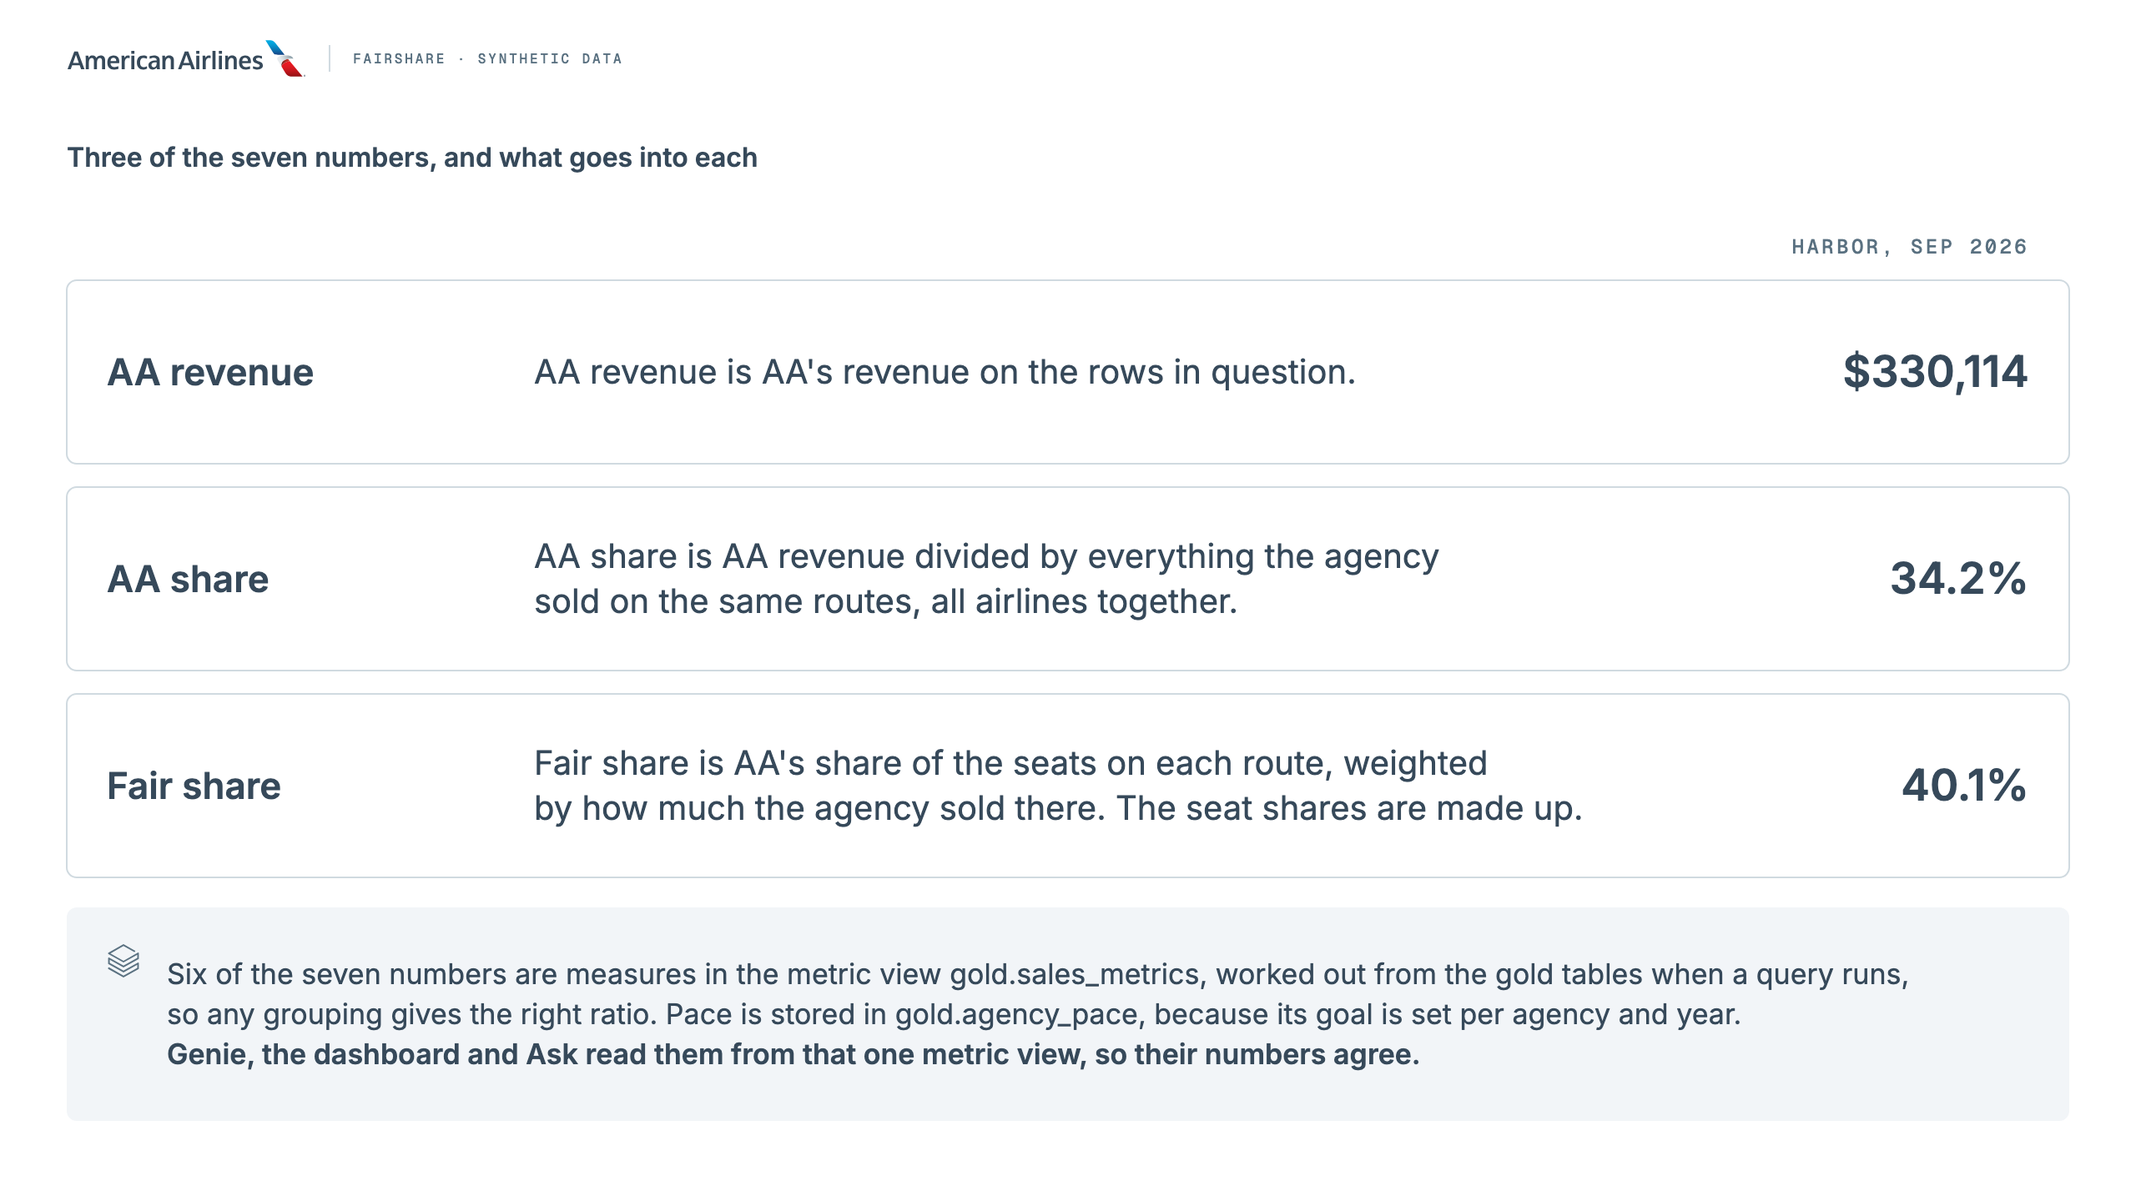
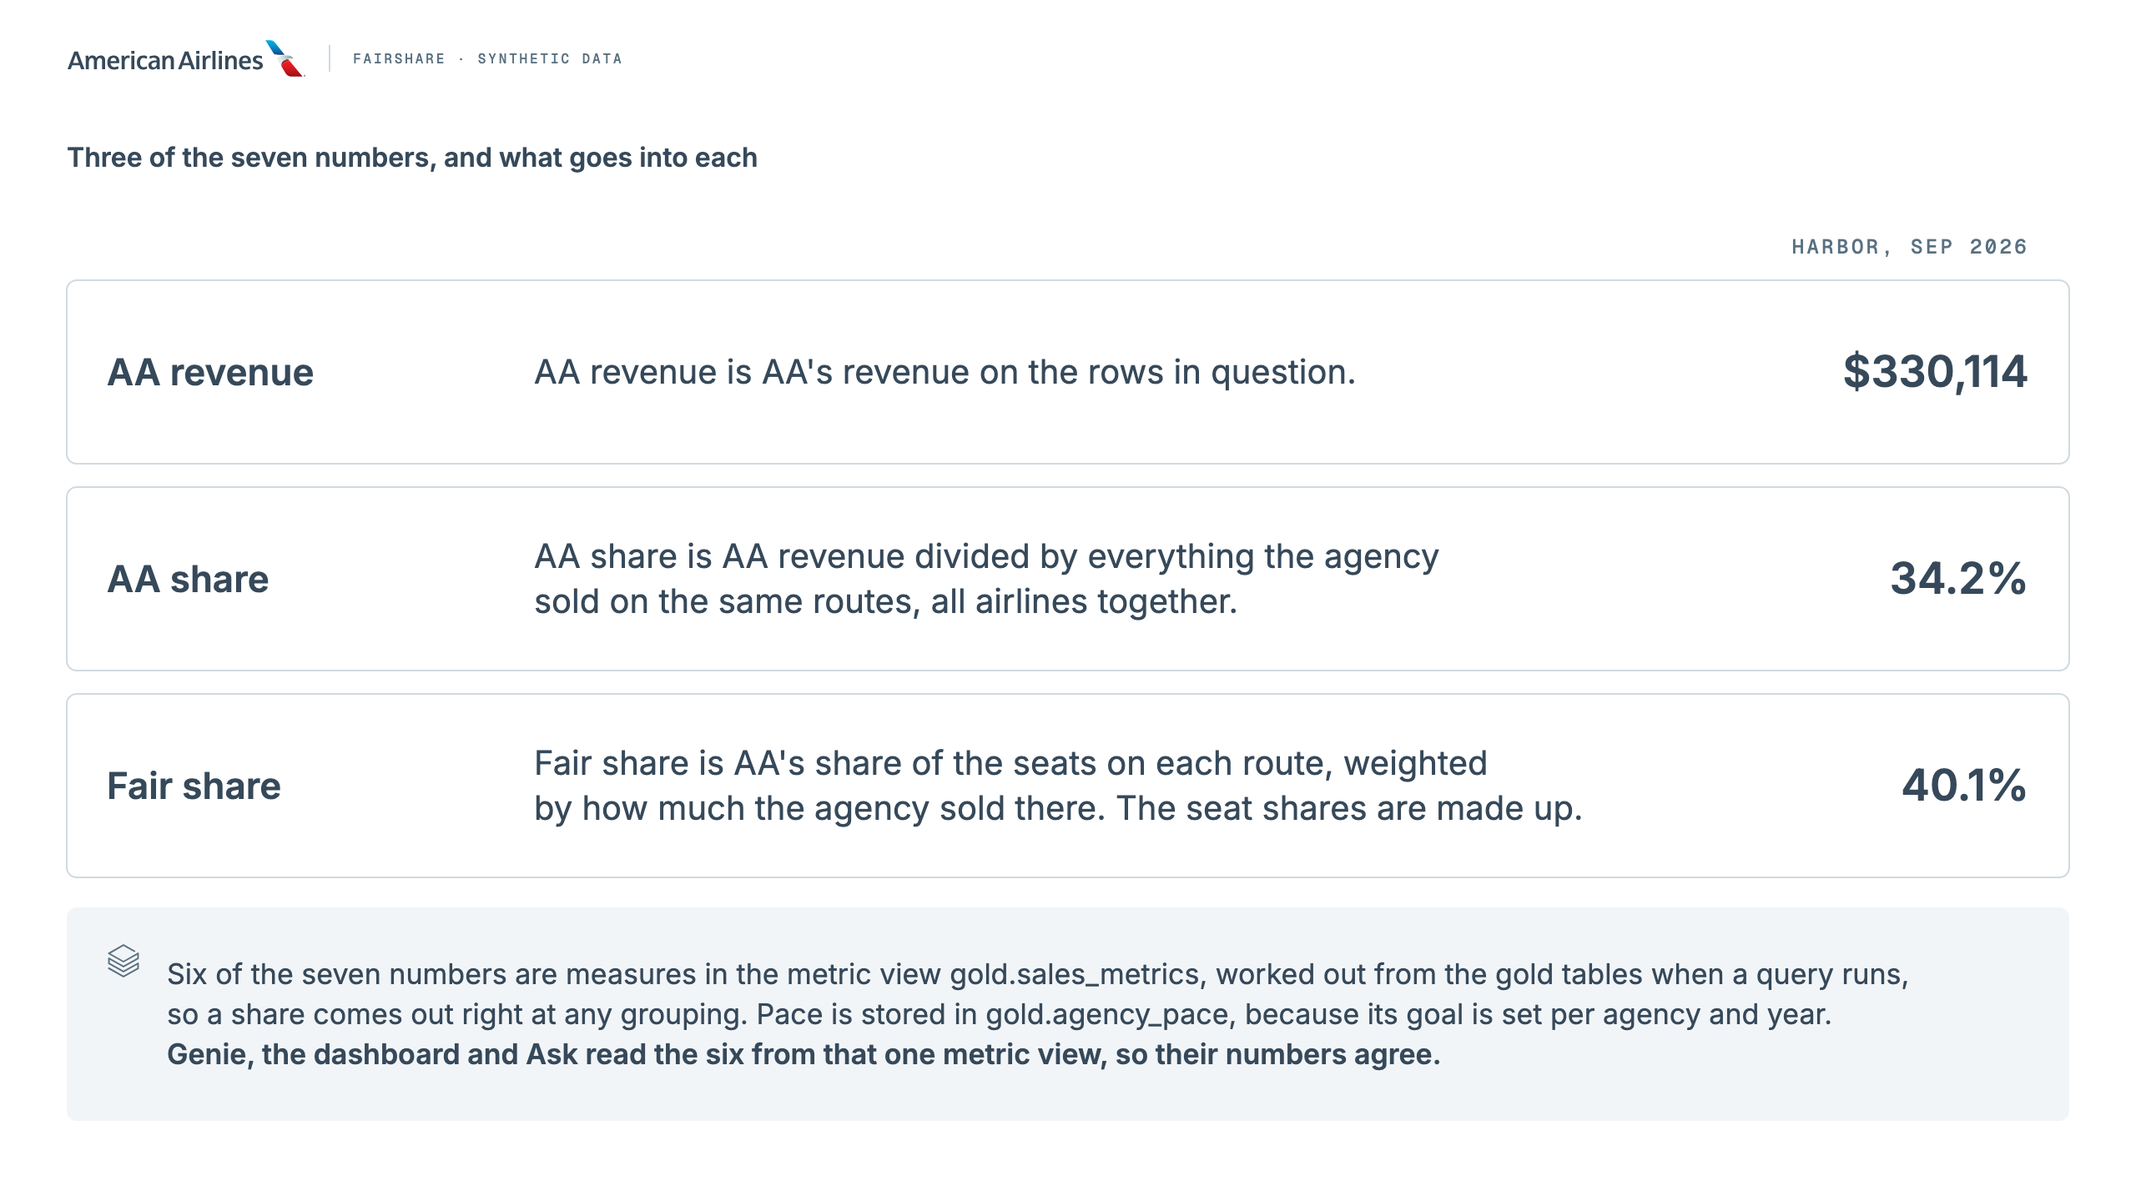
figures: the numbers close says a share is right at any grouping, and pace's goals are made up
The close on numbers and gaps now says "so a share comes out right at any
grouping" (year over year is right at month grain only) and "read the six from
that one metric view" (pace comes from gold.agency_pace). The pace card adds
"The goals are made up." The spec's explainability section says the same.

Changed region(s): [[0.0938, 0.8125, 0.8438, 0.9062]]

diff --git a/docs/diagrams/09b-numbers-gaps-animated.html b/docs/diagrams/09b-numbers-gaps-animated.html
@@ -245,18 +245,18 @@
           <text x="1216" y="402" fill="#36495a" font-size="26" font-weight="600" font-family="'Inter', system-ui, sans-serif" text-anchor="end" data-value="yoy_revenue_pct">-16.4%</text>
         </g>
         <g data-card="pace_pct"><rect x="40" y="444" width="1200" height="82" rx="6" fill="#ffffff" stroke="#d0dae0" stroke-width="1"/><text x="64" y="493" fill="#36495a" font-size="22" font-weight="600" font-family="'Inter', system-ui, sans-serif" data-name="pace_pct">Pace</text></g>
-        <g data-motion-item data-step="4" data-recede aria-label="Pace. Pace is revenue so far this year divided by the goal so far, counting only the months the agency reported. Harbor, Sep 2026: 96.1%.">
+        <g data-motion-item data-step="4" data-recede aria-label="Pace. Pace is revenue so far this year divided by the goal so far, counting only the months the agency reported. The goals are made up. Harbor, Sep 2026: 96.1%.">
           <rect x="40" y="444" width="1200" height="82" rx="6" fill="none" stroke="none" stroke-width="1.5" data-lead/>
           <text x="320" y="478.5" fill="#36495a" font-size="20" font-family="'Inter', system-ui, sans-serif" data-def="pace_pct">Pace is revenue so far this year divided by the goal so far,</text>
-          <text x="320" y="505.5" fill="#36495a" font-size="20" font-family="'Inter', system-ui, sans-serif" data-def="pace_pct">counting only the months the agency reported.</text>
+          <text x="320" y="505.5" fill="#36495a" font-size="20" font-family="'Inter', system-ui, sans-serif" data-def="pace_pct">counting only the months the agency reported. The goals are made up.</text>
           <text x="1216" y="494" fill="#36495a" font-size="26" font-weight="600" font-family="'Inter', system-ui, sans-serif" text-anchor="end" data-value="pace_pct">96.1%</text>
         </g>
-        <g data-motion-item data-step="5" aria-label="Where the numbers live. Six of the seven numbers are measures in the metric view gold.sales_metrics, worked out from the gold tables when a query runs, so any grouping gives the right ratio. Pace is stored in gold.agency_pace, because its goal is set per agency and year. Genie, the dashboard and Ask read them from that one metric view, so their numbers agree.">
+        <g data-motion-item data-step="5" aria-label="Where the numbers live. Six of the seven numbers are measures in the metric view gold.sales_metrics, worked out from the gold tables when a query runs, so a share comes out right at any grouping. Pace is stored in gold.agency_pace, because its goal is set per agency and year. Genie, the dashboard and Ask read the six from that one metric view, so their numbers agree.">
           <rect x="40" y="544" width="1200" height="128" rx="6" fill="#f2f5f8"/>
           <svg x="64" y="566" width="20" height="20" viewBox="0 0 24 24" aria-hidden="true"><path d="M.95 14.184L12 20.403l9.919-5.55v2.21L12 22.662l-10.484-5.96-.565.308v.77L12 24l11.05-6.218v-4.317l-.515-.309L12 19.118l-9.867-5.653v-2.21L12 16.805l11.05-6.218V6.32l-.515-.308L12 11.974 2.647 6.681 12 1.388l7.76 4.368.668-.411v-.566L12 0 .95 6.27v.72L12 13.207l9.919-5.55v2.26L12 15.52 1.516 9.56l-.565.308Z" fill="#5a7181"/></svg>
           <text x="100" y="590" fill="#36495a" font-size="17" font-weight="400" font-family="'Inter', system-ui, sans-serif" data-where>Six of the seven numbers are measures in the metric view gold.sales_metrics, worked out from the gold tables when a query runs,</text>
-          <text x="100" y="614" fill="#36495a" font-size="17" font-weight="400" font-family="'Inter', system-ui, sans-serif" data-where>so any grouping gives the right ratio. Pace is stored in gold.agency_pace, because its goal is set per agency and year.</text>
-          <text x="100" y="638" fill="#36495a" font-size="17" font-weight="600" font-family="'Inter', system-ui, sans-serif" data-where>Genie, the dashboard and Ask read them from that one metric view, so their numbers agree.</text>
+          <text x="100" y="614" fill="#36495a" font-size="17" font-weight="400" font-family="'Inter', system-ui, sans-serif" data-where>so a share comes out right at any grouping. Pace is stored in gold.agency_pace, because its goal is set per agency and year.</text>
+          <text x="100" y="638" fill="#36495a" font-size="17" font-weight="600" font-family="'Inter', system-ui, sans-serif" data-where>Genie, the dashboard and Ask read the six from that one metric view, so their numbers agree.</text>
         </g>
       </svg>
     </div>

diff --git a/docs/diagrams/09a-numbers-share-animated.html b/docs/diagrams/09a-numbers-share-animated.html
@@ -245,12 +245,12 @@
           <text x="320" y="491.5" fill="#36495a" font-size="20" font-family="'Inter', system-ui, sans-serif" data-def="fair_share">by how much the agency sold there. The seat shares are made up.</text>
           <text x="1216" y="480" fill="#36495a" font-size="26" font-weight="600" font-family="'Inter', system-ui, sans-serif" text-anchor="end" data-value="fair_share">40.1%</text>
         </g>
-        <g data-motion-item data-step="4" aria-label="Where the numbers live. Six of the seven numbers are measures in the metric view gold.sales_metrics, worked out from the gold tables when a query runs, so any grouping gives the right ratio. Pace is stored in gold.agency_pace, because its goal is set per agency and year. Genie, the dashboard and Ask read them from that one metric view, so their numbers agree.">
+        <g data-motion-item data-step="4" aria-label="Where the numbers live. Six of the seven numbers are measures in the metric view gold.sales_metrics, worked out from the gold tables when a query runs, so a share comes out right at any grouping. Pace is stored in gold.agency_pace, because its goal is set per agency and year. Genie, the dashboard and Ask read the six from that one metric view, so their numbers agree.">
           <rect x="40" y="544" width="1200" height="128" rx="6" fill="#f2f5f8"/>
           <svg x="64" y="566" width="20" height="20" viewBox="0 0 24 24" aria-hidden="true"><path d="M.95 14.184L12 20.403l9.919-5.55v2.21L12 22.662l-10.484-5.96-.565.308v.77L12 24l11.05-6.218v-4.317l-.515-.309L12 19.118l-9.867-5.653v-2.21L12 16.805l11.05-6.218V6.32l-.515-.308L12 11.974 2.647 6.681 12 1.388l7.76 4.368.668-.411v-.566L12 0 .95 6.27v.72L12 13.207l9.919-5.55v2.26L12 15.52 1.516 9.56l-.565.308Z" fill="#5a7181"/></svg>
           <text x="100" y="590" fill="#36495a" font-size="17" font-weight="400" font-family="'Inter', system-ui, sans-serif" data-where>Six of the seven numbers are measures in the metric view gold.sales_metrics, worked out from the gold tables when a query runs,</text>
-          <text x="100" y="614" fill="#36495a" font-size="17" font-weight="400" font-family="'Inter', system-ui, sans-serif" data-where>so any grouping gives the right ratio. Pace is stored in gold.agency_pace, because its goal is set per agency and year.</text>
-          <text x="100" y="638" fill="#36495a" font-size="17" font-weight="600" font-family="'Inter', system-ui, sans-serif" data-where>Genie, the dashboard and Ask read them from that one metric view, so their numbers agree.</text>
+          <text x="100" y="614" fill="#36495a" font-size="17" font-weight="400" font-family="'Inter', system-ui, sans-serif" data-where>so a share comes out right at any grouping. Pace is stored in gold.agency_pace, because its goal is set per agency and year.</text>
+          <text x="100" y="638" fill="#36495a" font-size="17" font-weight="600" font-family="'Inter', system-ui, sans-serif" data-where>Genie, the dashboard and Ask read the six from that one metric view, so their numbers agree.</text>
         </g>
       </svg>
     </div>

diff --git a/docs/diagrams/09b-numbers-gaps.html b/docs/diagrams/09b-numbers-gaps.html
@@ -55,13 +55,13 @@
         <text x="1216" y="402" fill="#36495a" font-size="26" font-weight="600" font-family="'Inter', system-ui, sans-serif" text-anchor="end" data-value="yoy_revenue_pct">-16.4%</text>
         <g data-card="pace_pct"><rect x="40" y="444" width="1200" height="82" rx="6" fill="#ffffff" stroke="#d0dae0" stroke-width="1"/><text x="64" y="493" fill="#36495a" font-size="22" font-weight="600" font-family="'Inter', system-ui, sans-serif" data-name="pace_pct">Pace</text></g>
         <text x="320" y="478.5" fill="#36495a" font-size="20" font-family="'Inter', system-ui, sans-serif" data-def="pace_pct">Pace is revenue so far this year divided by the goal so far,</text>
-        <text x="320" y="505.5" fill="#36495a" font-size="20" font-family="'Inter', system-ui, sans-serif" data-def="pace_pct">counting only the months the agency reported.</text>
+        <text x="320" y="505.5" fill="#36495a" font-size="20" font-family="'Inter', system-ui, sans-serif" data-def="pace_pct">counting only the months the agency reported. The goals are made up.</text>
         <text x="1216" y="494" fill="#36495a" font-size="26" font-weight="600" font-family="'Inter', system-ui, sans-serif" text-anchor="end" data-value="pace_pct">96.1%</text>
         <rect x="40" y="544" width="1200" height="128" rx="6" fill="#f2f5f8"/>
         <svg x="64" y="566" width="20" height="20" viewBox="0 0 24 24" aria-hidden="true"><path d="M.95 14.184L12 20.403l9.919-5.55v2.21L12 22.662l-10.484-5.96-.565.308v.77L12 24l11.05-6.218v-4.317l-.515-.309L12 19.118l-9.867-5.653v-2.21L12 16.805l11.05-6.218V6.32l-.515-.308L12 11.974 2.647 6.681 12 1.388l7.76 4.368.668-.411v-.566L12 0 .95 6.27v.72L12 13.207l9.919-5.55v2.26L12 15.52 1.516 9.56l-.565.308Z" fill="#5a7181"/></svg>
         <text x="100" y="590" fill="#36495a" font-size="17" font-weight="400" font-family="'Inter', system-ui, sans-serif" data-where>Six of the seven numbers are measures in the metric view gold.sales_metrics, worked out from the gold tables when a query runs,</text>
-        <text x="100" y="614" fill="#36495a" font-size="17" font-weight="400" font-family="'Inter', system-ui, sans-serif" data-where>so any grouping gives the right ratio. Pace is stored in gold.agency_pace, because its goal is set per agency and year.</text>
-        <text x="100" y="638" fill="#36495a" font-size="17" font-weight="600" font-family="'Inter', system-ui, sans-serif" data-where>Genie, the dashboard and Ask read them from that one metric view, so their numbers agree.</text>
+        <text x="100" y="614" fill="#36495a" font-size="17" font-weight="400" font-family="'Inter', system-ui, sans-serif" data-where>so a share comes out right at any grouping. Pace is stored in gold.agency_pace, because its goal is set per agency and year.</text>
+        <text x="100" y="638" fill="#36495a" font-size="17" font-weight="600" font-family="'Inter', system-ui, sans-serif" data-where>Genie, the dashboard and Ask read the six from that one metric view, so their numbers agree.</text>
       </svg>
     </div>
   </div>

diff --git a/docs/diagrams/09a-numbers-share.html b/docs/diagrams/09a-numbers-share.html
@@ -57,8 +57,8 @@
         <rect x="40" y="544" width="1200" height="128" rx="6" fill="#f2f5f8"/>
         <svg x="64" y="566" width="20" height="20" viewBox="0 0 24 24" aria-hidden="true"><path d="M.95 14.184L12 20.403l9.919-5.55v2.21L12 22.662l-10.484-5.96-.565.308v.77L12 24l11.05-6.218v-4.317l-.515-.309L12 19.118l-9.867-5.653v-2.21L12 16.805l11.05-6.218V6.32l-.515-.308L12 11.974 2.647 6.681 12 1.388l7.76 4.368.668-.411v-.566L12 0 .95 6.27v.72L12 13.207l9.919-5.55v2.26L12 15.52 1.516 9.56l-.565.308Z" fill="#5a7181"/></svg>
         <text x="100" y="590" fill="#36495a" font-size="17" font-weight="400" font-family="'Inter', system-ui, sans-serif" data-where>Six of the seven numbers are measures in the metric view gold.sales_metrics, worked out from the gold tables when a query runs,</text>
-        <text x="100" y="614" fill="#36495a" font-size="17" font-weight="400" font-family="'Inter', system-ui, sans-serif" data-where>so any grouping gives the right ratio. Pace is stored in gold.agency_pace, because its goal is set per agency and year.</text>
-        <text x="100" y="638" fill="#36495a" font-size="17" font-weight="600" font-family="'Inter', system-ui, sans-serif" data-where>Genie, the dashboard and Ask read them from that one metric view, so their numbers agree.</text>
+        <text x="100" y="614" fill="#36495a" font-size="17" font-weight="400" font-family="'Inter', system-ui, sans-serif" data-where>so a share comes out right at any grouping. Pace is stored in gold.agency_pace, because its goal is set per agency and year.</text>
+        <text x="100" y="638" fill="#36495a" font-size="17" font-weight="600" font-family="'Inter', system-ui, sans-serif" data-where>Genie, the dashboard and Ask read the six from that one metric view, so their numbers agree.</text>
       </svg>
     </div>
   </div>

diff --git a/docs/diagrams/src/definitions.py b/docs/diagrams/src/definitions.py
@@ -245,13 +245,13 @@ NUMBERS = [  # (key in ops.kpi_definitions, name, how it is calculated in the sp
     ("share_gap_usd", "Share gap in dollars", "The share gap in dollars is AA revenue minus what fair share would have brought in.",
      "harbor_gap_usd_sep26", ""),
     ("yoy_revenue_pct", "Year over year", "Year over year compares AA revenue with the same month last year.", "harbor_yoy_sep26", ""),
-    ("pace_pct", "Pace", "Pace is revenue so far this year divided by the goal so far, counting only the months the agency reported.",
-     "harbor_pace_sep26", "%"),  # pace_pct is a percent of the goal so far; the fact shows it bare, as the notes say it
+    ("pace_pct", "Pace", "Pace is revenue so far this year divided by the goal so far, counting only the months the agency reported. "
+                         "The goals are made up.", "harbor_pace_sep26", "%"),  # pace_pct is a percent of the goal so far; the fact shows it bare
 ]
 EXAMPLE = "Harbor, Sep 2026"  # whose values the cards print: the agency and month the Ask demo and figure 08 are about
 WHERE = ("Six of the seven numbers are measures in the metric view gold.sales_metrics, worked out from the gold tables when a query runs, "
-         "so any grouping gives the right ratio. Pace is stored in gold.agency_pace, because its goal is set per agency and year.",
-         "Genie, the dashboard and Ask read them from that one metric view, so their numbers agree.")
+         "so a share comes out right at any grouping. Pace is stored in gold.agency_pace, because its goal is set per agency and year.",
+         "Genie, the dashboard and Ask read the six from that one metric view, so their numbers agree.")
 PAGES = [  # slug, title, the numbers on the page
     ("09a-numbers-share", "Three of the seven numbers, and what goes into each", NUMBERS[:3]),
     ("09b-numbers-gaps", "The other four numbers, and what goes into each", NUMBERS[3:]),

diff --git a/evals/test_figures_in_deck.py b/evals/test_figures_in_deck.py
@@ -507,15 +507,15 @@ NUMBERS = {
         ("share_gap_usd", "Share gap in dollars", "The share gap in dollars is AA revenue minus what fair share would have brought in.",
          "harbor_gap_usd_sep26"),
         ("yoy_revenue_pct", "Year over year", "Year over year compares AA revenue with the same month last year.", "harbor_yoy_sep26"),
-        ("pace_pct", "Pace", "Pace is revenue so far this year divided by the goal so far, counting only the months the agency reported.",
-         "harbor_pace_sep26"),
+        ("pace_pct", "Pace", "Pace is revenue so far this year divided by the goal so far, counting only the months the agency reported. "
+                             "The goals are made up.", "harbor_pace_sep26"),
     ],
 }
 NUMBER_PAGES = [n for page in NUMBERS for n in (page, f"{page}-animated")]
 # where the seven numbers live and why that matters, as the same spec words it; each page closes on it
 WHERE = ("Six of the seven numbers are measures in the metric view gold.sales_metrics, worked out from the gold tables when a query runs, "
-         "so any grouping gives the right ratio. Pace is stored in gold.agency_pace, because its goal is set per agency and year. "
-         "Genie, the dashboard and Ask read them from that one metric view, so their numbers agree.")
+         "so a share comes out right at any grouping. Pace is stored in gold.agency_pace, because its goal is set per agency and year. "
+         "Genie, the dashboard and Ask read the six from that one metric view, so their numbers agree.")
 
 
 def marked(fig: Node, part: str, key=None) -> list[Node]:

diff --git a/docs/superpowers/specs/2026-10-20-deck-redesign-design.md b/docs/superpowers/specs/2026-10-20-deck-redesign-design.md
@@ -232,12 +232,13 @@ The evals take two slides, because each eval carries four parts. The short path 
   - The share gap in points is AA share minus fair share.
   - The share gap in dollars is AA revenue minus what fair share would have brought in.
   - Year over year compares AA revenue with the same month last year.
-  - Pace is revenue so far this year divided by the goal so far, counting only the months the agency reported.
+  - Pace is revenue so far this year divided by the goal so far, counting only the months the agency reported. The pace
+    card also says the goals are made up, so the label travels with the value it affects.
 
   The slide says where they live: six are measures in the metric view `gold.sales_metrics`, worked out from the gold
-  tables when a query runs, so any grouping gives the right ratio; pace is stored in `gold.agency_pace`, because its goal
-  is set per agency and year. It also says why they matter: Genie, the dashboard and Ask read them from that one metric
-  view, so their numbers agree.
+  tables when a query runs, so a share comes out right at any grouping; pace is stored in `gold.agency_pace`, because its
+  goal is set per agency and year. It also says why they matter: Genie, the dashboard and Ask read the six from that one
+  metric view, so their numbers agree.
 - `share-fair`: fewer things at once, stepped. The builder picks which agencies carry the story.
 - `moved`: route mix in plain words, the change from selling more on some routes and less on others, valued at last
   year's AA share on each route. For Harbor in September it barely moved, and the slide says so.
